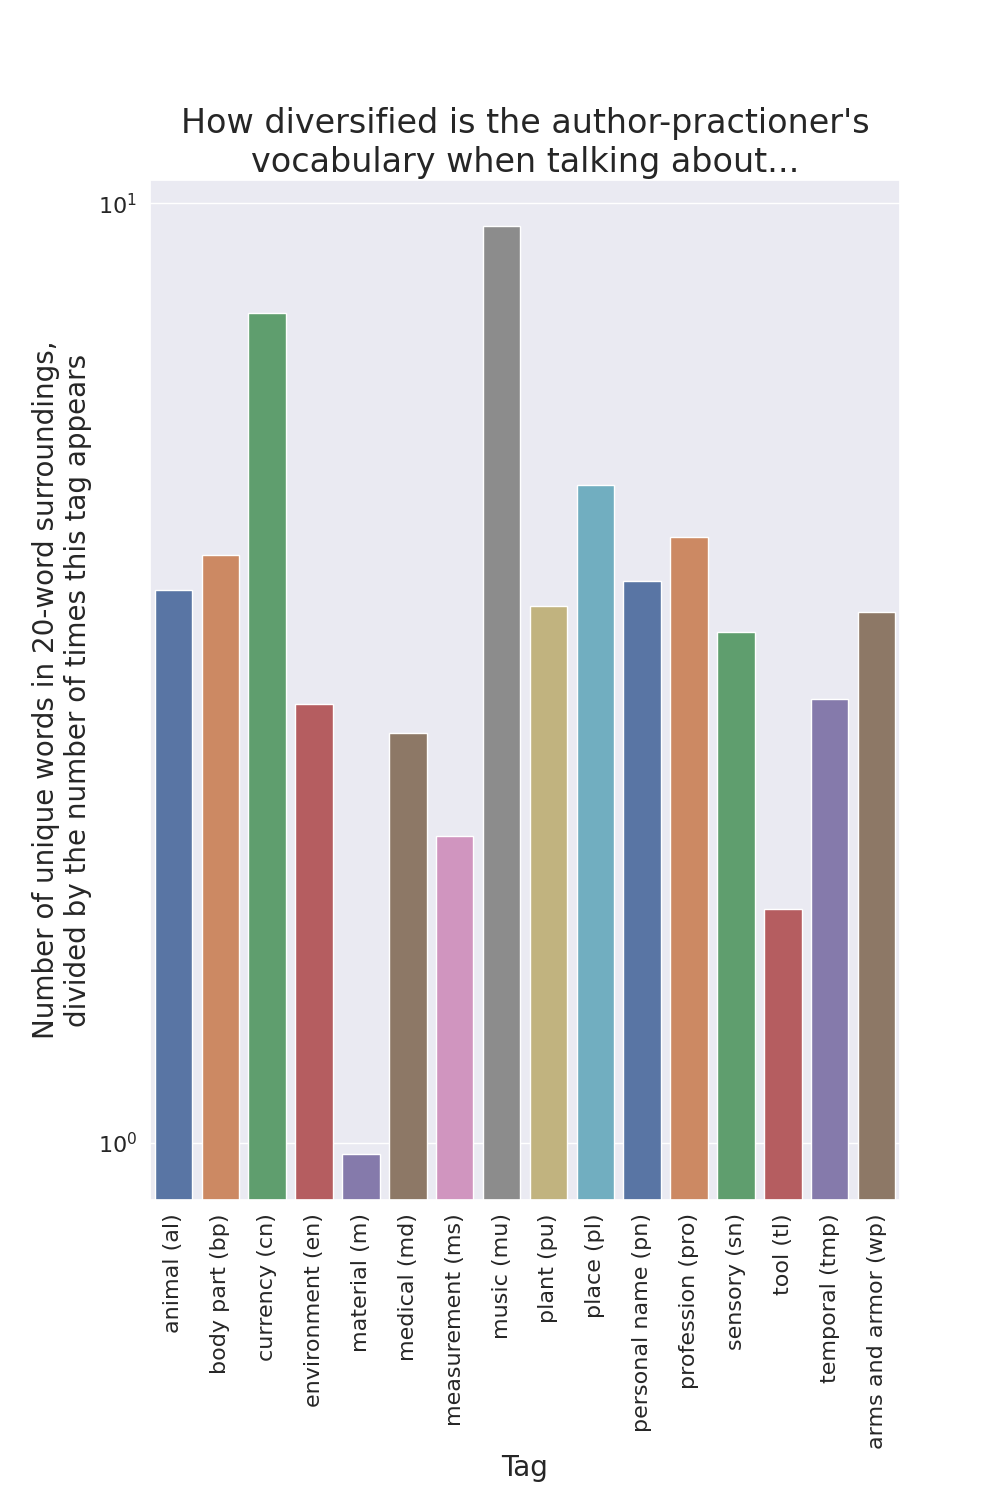
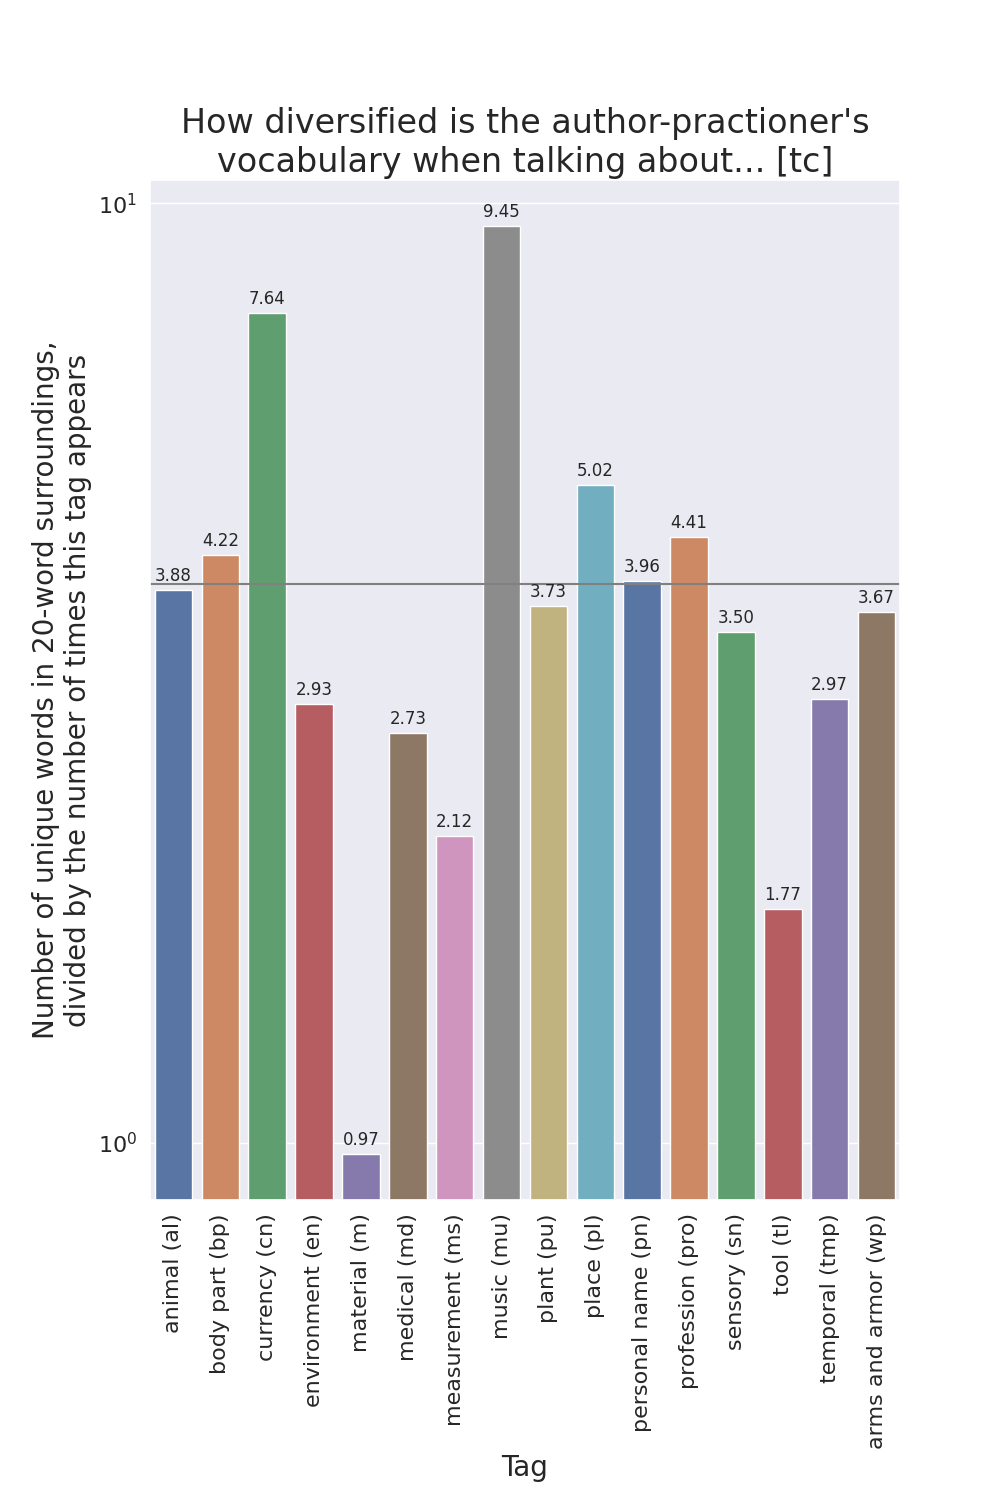
added annotations & mean to barplots + manuscript version in plot titles

diff --git a/context_viz.py b/context_viz.py
@@ -125,7 +125,7 @@ def create_symmetrical_heatmap():
                           cmap = sns.cm.rocket_r)
     heatmap.collections[0].colorbar.set_label("Percentage of similar words in 20-word surroundings",
                                               fontsize = 20)
-    heatmap.set_title("How similar is the author-practioner's vocabulary\nwhen talking about two different topics",
+    heatmap.set_title("How similar is the author-practioner's vocabulary\nwhen talking about two different topics [" + manuscript_version + "]",
                       fontsize = 22)
     heatmap.set_ylabel("Tags", fontsize = 20)
     heatmap.set_xlabel("Tags", fontsize = 20)
@@ -157,7 +157,7 @@ def create_asymmetrical_heatmap():
                           cmap = sns.cm.rocket_r)
     heatmap.collections[0].colorbar.set_label("Percentage of included words in 20-word surroundings",
                                               fontsize = 20)
-    heatmap.set_title("How similar is the author-practioner's vocabulary\nwhen talking about two different topics",
+    heatmap.set_title("How similar is the author-practioner's vocabulary\nwhen talking about two different topics [" + manuscript_version + "]",
                       fontsize = 22)
     heatmap.set_ylabel("How much of this tag's context vocabulary...", fontsize = 20)
     heatmap.set_xlabel("...is included in this tag's context vocabulary?", fontsize = 20)
@@ -182,10 +182,19 @@ def create_barplot(normalized):
         filename_appendix = ""
     barplt = sns.barplot(x = tag_names, y = data,
                        palette = "deep")
+    mean = np.mean(data)
+    barplt.axhline(mean, ls='-', color = "grey")
+    barplt.text(0, mean + 80, "Mean", fontsize = 16, color = "grey")
+    for p in barplt.patches:
+        if (normalized):
+            nb = format(p.get_height(), '.2f')
+        else:
+            nb = int(p.get_height())
+        barplt.annotate(nb, (p.get_x() + p.get_width() / 2., p.get_height()), ha = 'center', va = 'center', xytext = (0, 10), textcoords = 'offset points')
     barplt.set_ylabel("Number of unique words in 20-word surroundings" + ylabel_appendix,
                     fontsize = 20)
     barplt.set_xlabel("Tag", fontsize = 20)
-    barplt.set_title("How diversified is the author-practioner's\nvocabulary when talking about...",
+    barplt.set_title("How diversified is the author-practioner's\nvocabulary when talking about... [" + manuscript_version + "]",
                    fontsize = 24)
     barplt.set_xticklabels(barplt.get_xticklabels(), rotation = 90, fontsize = 16)
     barplt.set_yticklabels(tag_names, size = 16)
